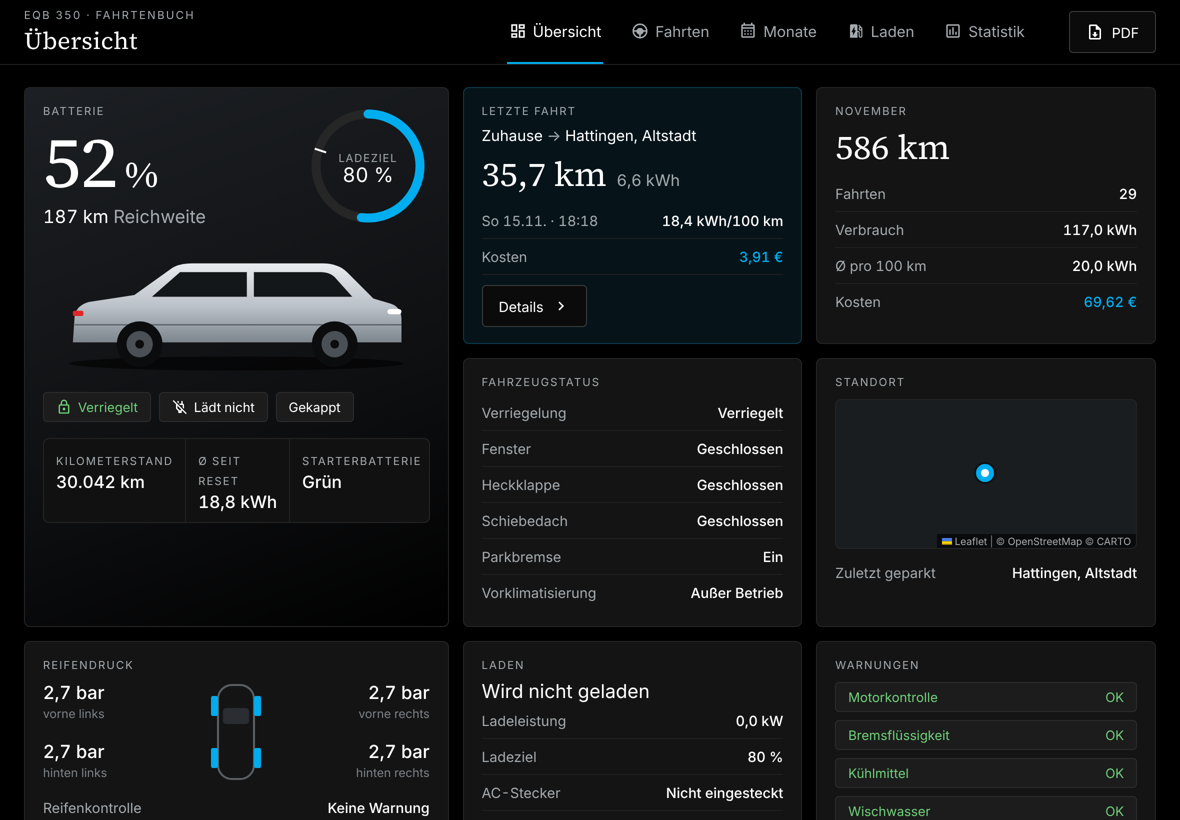
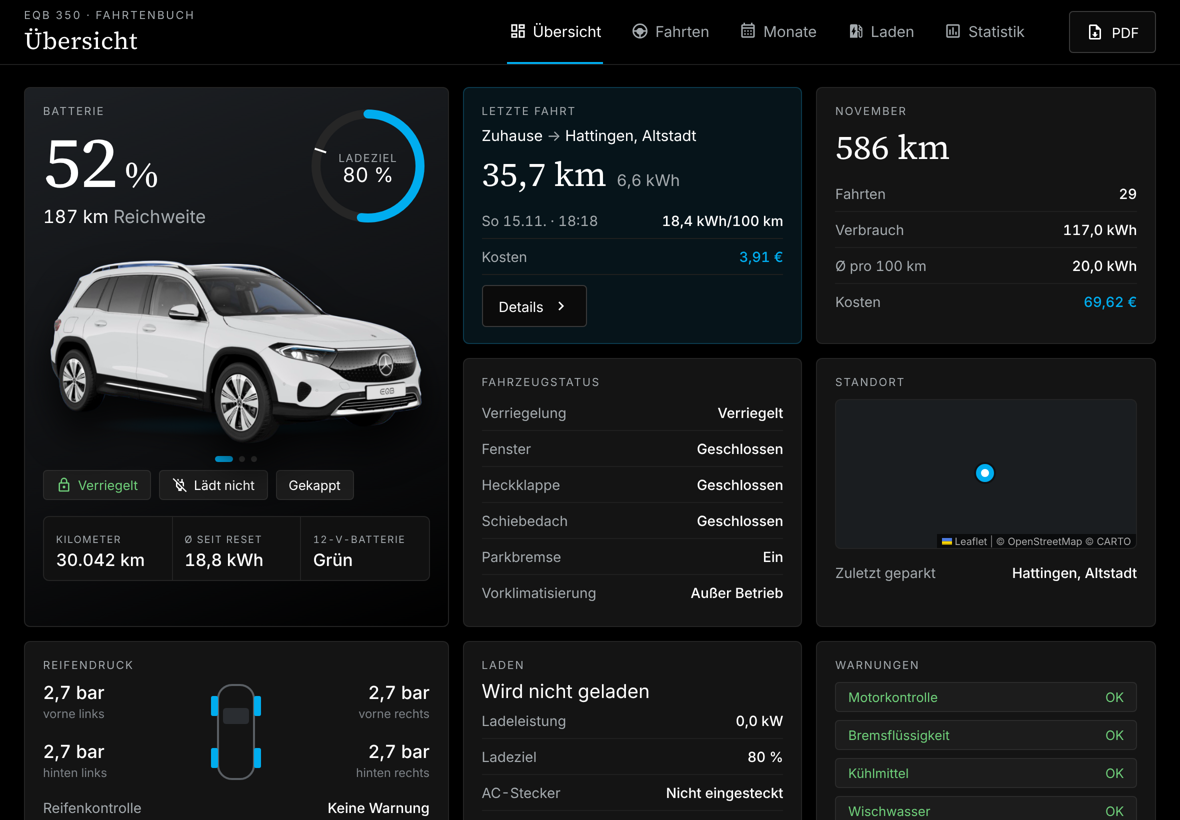
1.0.1: echte Fahrzeugbilder in der Übersicht
Die gezeichnete Auto-Grafik ist durch drei Bilder des EQB ersetzt
(Seite, Front, Heck). Antippen wechselt die Ansicht.

Claude-Session: https://claude.ai/code/session_01AD3EzYWMvtVXXpwEwN8roa

diff --git a/custom_components/eqb_fahrtenbuch/frontend/panel.js b/custom_components/eqb_fahrtenbuch/frontend/panel.js
@@ -138,6 +138,14 @@ tr.cur td{background:#0d1a20}
 .ov{display:grid;grid-template-columns:1.25fr 1fr 1fr;gap:14px}
 .hero{grid-row:span 2;background:linear-gradient(160deg,#1c1f23 0%,#0e0f11 60%,#000 100%);position:relative;overflow:hidden}
 .hero .soc{font-family:"EQB Serif",Georgia,serif;font-size:72px;line-height:1;letter-spacing:-1px}
+.carwrap{position:relative;display:flex;flex-direction:column;align-items:center;justify-content:flex-end;height:220px;margin:14px 0 8px;cursor:pointer;-webkit-tap-highlight-color:transparent}
+.carwrap img{max-width:100%;max-height:184px;object-fit:contain;filter:drop-shadow(0 22px 18px rgba(0,0,0,.75));animation:carIn .35s ease}
+.carwrap::before{content:"";position:absolute;bottom:26px;left:12%;right:12%;height:22px;border-radius:50%;background:radial-gradient(closest-side,rgba(0,173,239,.18),transparent)}
+.cardots{display:flex;gap:6px;margin-top:12px}
+.cardots i{width:6px;height:6px;border-radius:3px;background:#3a3a3a;transition:width .2s}
+.cardots i.on{width:18px;background:var(--blue)}
+@keyframes carIn{from{opacity:0;transform:translateY(4px)}to{opacity:1;transform:none}}
+@media (prefers-reduced-motion:reduce){.carwrap img{animation:none}}
 .mini{display:grid;grid-template-columns:repeat(3,1fr);gap:1px;background:var(--line);border:1px solid var(--line);border-radius:6px;overflow:hidden;margin-top:16px}
 .mini>div{background:#111;padding:10px 12px}
 .mini .lbl{font-size:10px;letter-spacing:1px}
@@ -174,6 +182,7 @@ tr.cur td{background:#0d1a20}
 .pin.car{border-color:var(--blue);background:#fff;width:18px;height:18px}
 @media (max-width:1100px){.ov{grid-template-columns:1fr 1fr}.hero{grid-column:span 2;grid-row:auto}.side{width:340px}}
 @media (max-width:820px){
+ .carwrap{height:180px}.carwrap img{max-height:148px}
  .top{padding:0 14px}.menu{display:block}.title h1{font-size:21px}
  .toprow{min-height:56px;gap:10px}
  .tabs{position:fixed;left:0;right:0;bottom:0;z-index:30;background:#0b0b0b;border-top:1px solid var(--line);margin:0;gap:0;justify-content:space-around;padding-bottom:env(safe-area-inset-bottom);height:auto}
@@ -469,7 +478,10 @@ class EqbFahrtenbuchPanel extends HTMLElement {
               <text x="62" y="78" text-anchor="middle" fill="#fff" font-size="20">${fmt(maxSoc, 0)} %</text>
             </svg>
           </div>
-          ${CAR_SVG}
+          <div class="carwrap" data-a="carview" title="Antippen für eine andere Ansicht">
+            <img src="${this.base}/img/${CAR_VIEWS[this.s.carView || 0]}.png?v=2" alt="Mercedes EQB">
+            <div class="cardots">${CAR_VIEWS.map((_, i) => `<i class="${i === (this.s.carView || 0) ? "on" : ""}"></i>`).join("")}</div>
+          </div>
           <div style="display:flex;gap:8px;flex-wrap:wrap">
             ${lockTxt ? `<span class="pill ${/verriegelt/i.test(lockTxt) && !/ent/i.test(lockTxt) ? "ok" : "warnp"}"><ha-icon icon="mdi:lock-outline"></ha-icon>${esc(lockTxt)}</span>` : ""}
             <span class="pill ${charging ? "blue" : ""}"><ha-icon icon="${charging ? "mdi:battery-charging" : "mdi:power-plug-off-outline"}"></ha-icon>${charging ? "Lädt" : "Lädt nicht"}</span>
@@ -1048,6 +1060,10 @@ class EqbFahrtenbuchPanel extends HTMLElement {
     e.stopPropagation();
     const go = () => this.render();
     switch (a) {
+      case "carview":
+        this.s.carView = ((this.s.carView || 0) + 1) % CAR_VIEWS.length;
+        go();
+        break;
       case "menu":
         this.dispatchEvent(new Event("hass-toggle-menu", { bubbles: true, composed: true }));
         break;
@@ -1321,15 +1337,6 @@ class EqbFahrtenbuchPanel extends HTMLElement {
   }
 }
 
-const CAR_SVG = `<svg viewBox="0 0 440 150" width="100%" style="margin:16px 0 12px;max-height:170px" aria-hidden="true">
-  <defs><linearGradient id="eqbBody" x1="0" y1="0" x2="0" y2="1"><stop offset="0" stop-color="#e9ecef"/><stop offset=".55" stop-color="#b9c0c7"/><stop offset="1" stop-color="#7d858d"/></linearGradient></defs>
-  <ellipse cx="220" cy="136" rx="190" ry="8" fill="#000" opacity=".6"/>
-  <path d="M34 112 L36 82 Q38 70 52 66 L104 58 L146 28 Q154 22 170 22 L318 22 Q336 22 346 32 L376 62 L396 68 Q408 72 408 86 L408 112 Z" fill="url(#eqbBody)"/>
-  <path d="M156 32 L232 32 L232 60 L124 60 Z M240 32 L316 32 Q328 32 334 40 L352 60 L240 60 Z" fill="#14171a"/>
-  <path d="M36 92 L408 92" stroke="#5d656c" stroke-width="1.5"/>
-  <rect x="392" y="74" width="16" height="6" rx="3" fill="#fff"/><rect x="34" y="76" width="12" height="6" rx="2" fill="#e0262b"/>
-  <circle cx="110" cy="114" r="26" fill="#0b0c0e"/><circle cx="110" cy="114" r="15" fill="#4a5056"/><circle cx="110" cy="114" r="5" fill="#0b0c0e"/>
-  <circle cx="332" cy="114" r="26" fill="#0b0c0e"/><circle cx="332" cy="114" r="15" fill="#4a5056"/><circle cx="332" cy="114" r="5" fill="#0b0c0e"/>
-</svg>`;
+const CAR_VIEWS = ["eqb_seite", "eqb_front", "eqb_heck"];
 
 customElements.define("eqb-fahrtenbuch-panel", EqbFahrtenbuchPanel);

diff --git a/custom_components/eqb_fahrtenbuch/const.py b/custom_components/eqb_fahrtenbuch/const.py
@@ -1,7 +1,7 @@
 """Konstanten für das EQB Fahrtenbuch."""
 
 DOMAIN = "eqb_fahrtenbuch"
-VERSION = "1.0.0"
+VERSION = "1.0.1"
 
 SOURCE_DOMAIN = "mbapi2020"  # MercedesMe2020-Integration
 
